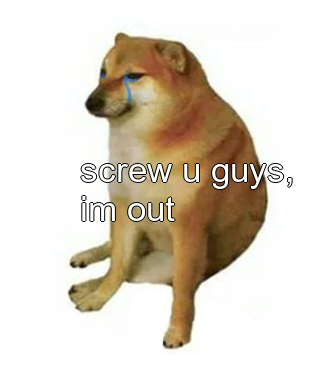
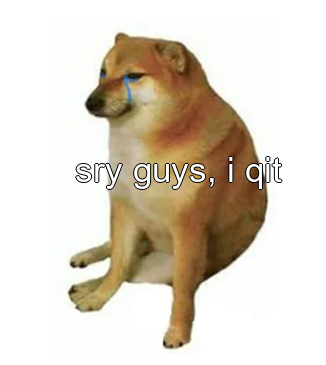
finish

Changed region(s): [[0.2147, 0.4219, 0.9202, 0.6329]]

diff --git a/bye.py b/bye.py
@@ -5,6 +5,7 @@ import textwrap
 
 from PIL import Image, ImageDraw, ImageFont
 
+token = ""
 
 randomText = ['guys i cannot take it no more, srsly', 'i qit', 'much sad, very quit', 'goobdye crul dev worl', 'screw u guys, im out', 'sry guys, i qit']
 randString = str(random.choice(randomText))
@@ -29,15 +30,15 @@ for line in textwrap.wrap(randString, width=15):
 
 image.save('cheems_quits.png')
 
-img = open('cheems_quits.png','rb')
+img = open('cheems_quits.png','rb').read()
+f = {"file": img}
 
-token = ""
 payload = {
-"channels": "C012REL3YUW",
-"file": img
-}
+"token": token,
+"channels": ["C012REL3YUW"],
+"text":"hey",
+"filename":"cheems_quits.png"}
 
-response = requests.post('https://slack.com/api/files.upload', data=payload,
-    headers={'Content-Type': 'application/json', 'Authorization': token})
+response = requests.post('https://slack.com/api/files.upload', params=payload, files=f)
 
 print(f'Slack Response: {response.content}')
